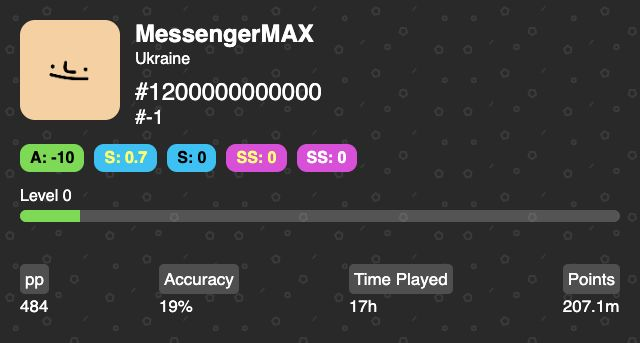
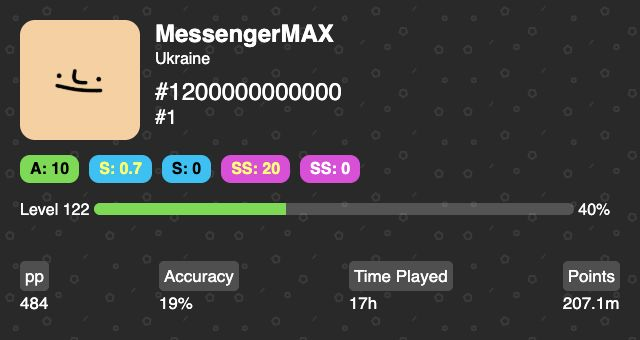
v1.3.6 styles
more compact level and progres bar (now in one line)

diff --git a/src/templates/userCard.js b/src/templates/userCard.js
@@ -4,15 +4,15 @@ const data = {
   username: "MessengerMAX",
   country: "Ukraine",
   worldTop: 1200000000000,
-  countryTop: -1,
+  countryTop: 1,
 
-  a: -10,
+  a: 10,
   goldenS: 0.7,
   silverS: 0,
-  goldenSS: 0,
+  goldenSS: 20,
   silverSS: 0,
-  level: 0,
-  levelProgress: 10,
+  level: 122,
+  levelProgress: 40,
 
   pp: 484,
   accuracy: 19,

diff --git a/src/templates/userCard.css b/src/templates/userCard.css
@@ -37,8 +37,8 @@
 }
 
 .pfp {
-  width: 100px;
-  height: 100px;
+  width: 120px;
+  height: 120px;
   border-radius: 15px;
   object-fit: cover;
 }
@@ -76,8 +76,9 @@
 }
 
 .progress-bar {
-  width: 100%;
+  width: 80%;
   height: 12px;
+  display: inline-block;
   background: rgba(255,255,255,0.2);
   border-radius: 6px;
   overflow: hidden;
